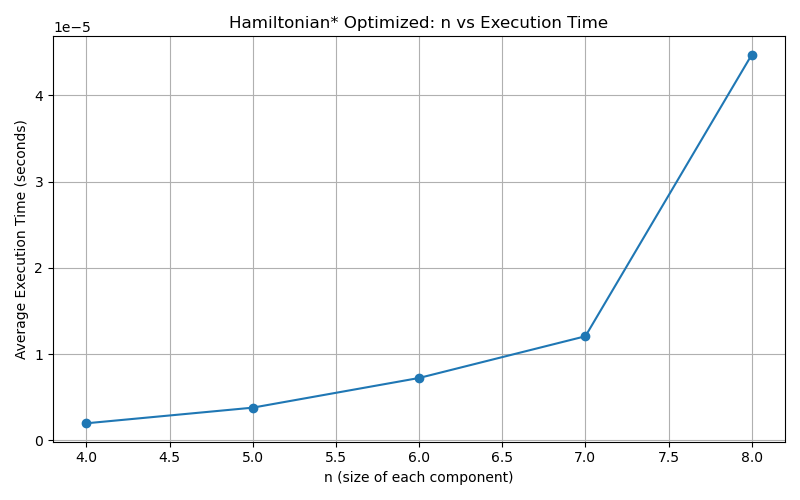
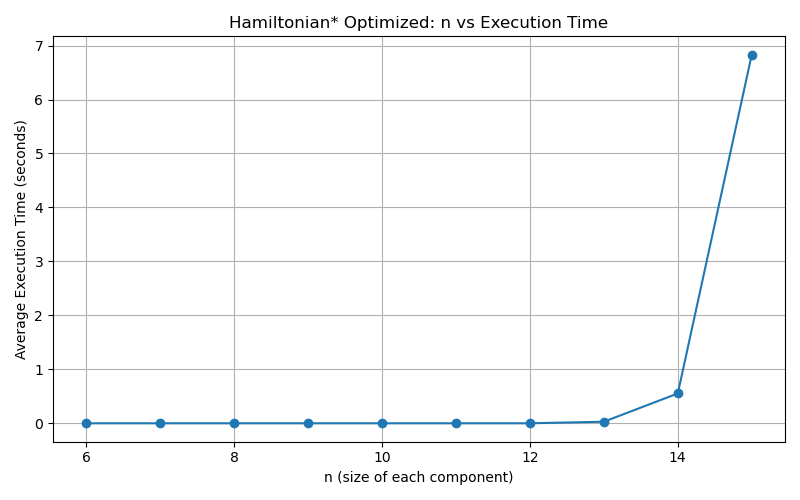
add graph and table for bonus algorithm

diff --git a/src/solution.py b/src/solution.py
@@ -93,7 +93,7 @@ def hamiltonian_optimized(graph: List[List[int]], start: int, end: int) -> bool:
     """
 
     N = len(graph)
-    n = N // 3  # guaranteed by generator
+    n = N // 3  
 
     # Find connected component of start
     L = dfs(graph, start)
@@ -111,3 +111,84 @@ def hamiltonian_optimized(graph: List[List[int]], start: int, end: int) -> bool:
 
     # Use Algorithm 4 as subroutine
     return all_permutations(H, s, t)
+
+
+def compress_graph(adj, cluster_nodes):
+    # map original node → 0..n-1
+    idx = {node: i for i, node in enumerate(cluster_nodes)}
+    n = len(cluster_nodes)
+
+    # compressed adjacency
+    comp_adj = [[0]*n for _ in range(n)]
+    for i in range(n):
+        for j in range(n):
+            if adj[cluster_nodes[i]][cluster_nodes[j]] == 1:
+                comp_adj[i][j] = 1
+
+    return comp_adj, idx
+
+
+def hamiltonian_path_bitmask_cluster(adj, start, end, cluster_nodes):
+    # Step 1: compress graph to local (0..n-1)
+    comp_adj, idx = compress_graph(adj, cluster_nodes)
+    n = len(cluster_nodes)
+
+    start_l = idx[start]
+    end_l   = idx[end]
+
+    # dp[mask][v] = whether we can reach v using nodes in mask
+    dp = [[False]*n for _ in range(1 << n)]
+    dp[1 << start_l][start_l] = True
+
+    # Fill DP
+    for mask in range(1 << n):
+        if not (mask & (1 << start_l)): 
+            continue  # path must include start
+
+        for v in range(n):
+            if not dp[mask][v]:
+                continue
+
+            # Try extending to neighbors
+            for u in range(n):
+                if not comp_adj[v][u]:
+                    continue
+                if mask & (1 << u):
+                    continue  # already used
+
+                # Cannot visit end unless this is the last step
+                next_mask = mask | (1 << u)
+                if u == end_l and next_mask != (1 << n) - 1:
+                    continue
+
+                dp[next_mask][u] = True
+
+    full_mask = (1 << n) - 1
+
+    # Check if solution exists
+    if not dp[full_mask][end_l]:
+        return None
+
+    # Reconstruct path
+    path = []
+    mask = full_mask
+    cur = end_l
+
+    for _ in range(n):
+        path.append(cluster_nodes[cur])  # convert back to original numbers
+        prev_mask = mask ^ (1 << cur)
+
+        if prev_mask == 0:
+            break
+
+        # find predecessor
+        for u in range(n):
+            if dp[prev_mask][u] and comp_adj[u][cur]:
+                # end must be last
+                if u == end_l and prev_mask != (1 << end_l):
+                    continue
+                cur = u
+                mask = prev_mask
+                break
+
+    return path[::-1]

diff --git a/src/experiment.py b/src/experiment.py
@@ -2,7 +2,7 @@ import time
 import matplotlib.pyplot as plt
 import random
 from graph_construction import generate_tricky_graph
-from solution import hamiltonian_optimized, hamiltonian_naive    # or hamiltonian_naive
+from solution import hamiltonian_optimized, hamiltonian_naive, hamiltonian_bonus
 
 random.seed(31)
 
@@ -26,7 +26,7 @@ def measure_runtime(func, n, rounds=10):
 
 
 def main():
-    ns = [4, 5, 6, 7, 8]   # ≥ 4, at least 5 different values
+    ns = [4, 5, 6, 7, 8, 9]   # ≥ 4, at least 5 different values
     avg_times = []
 
     for n in ns:
